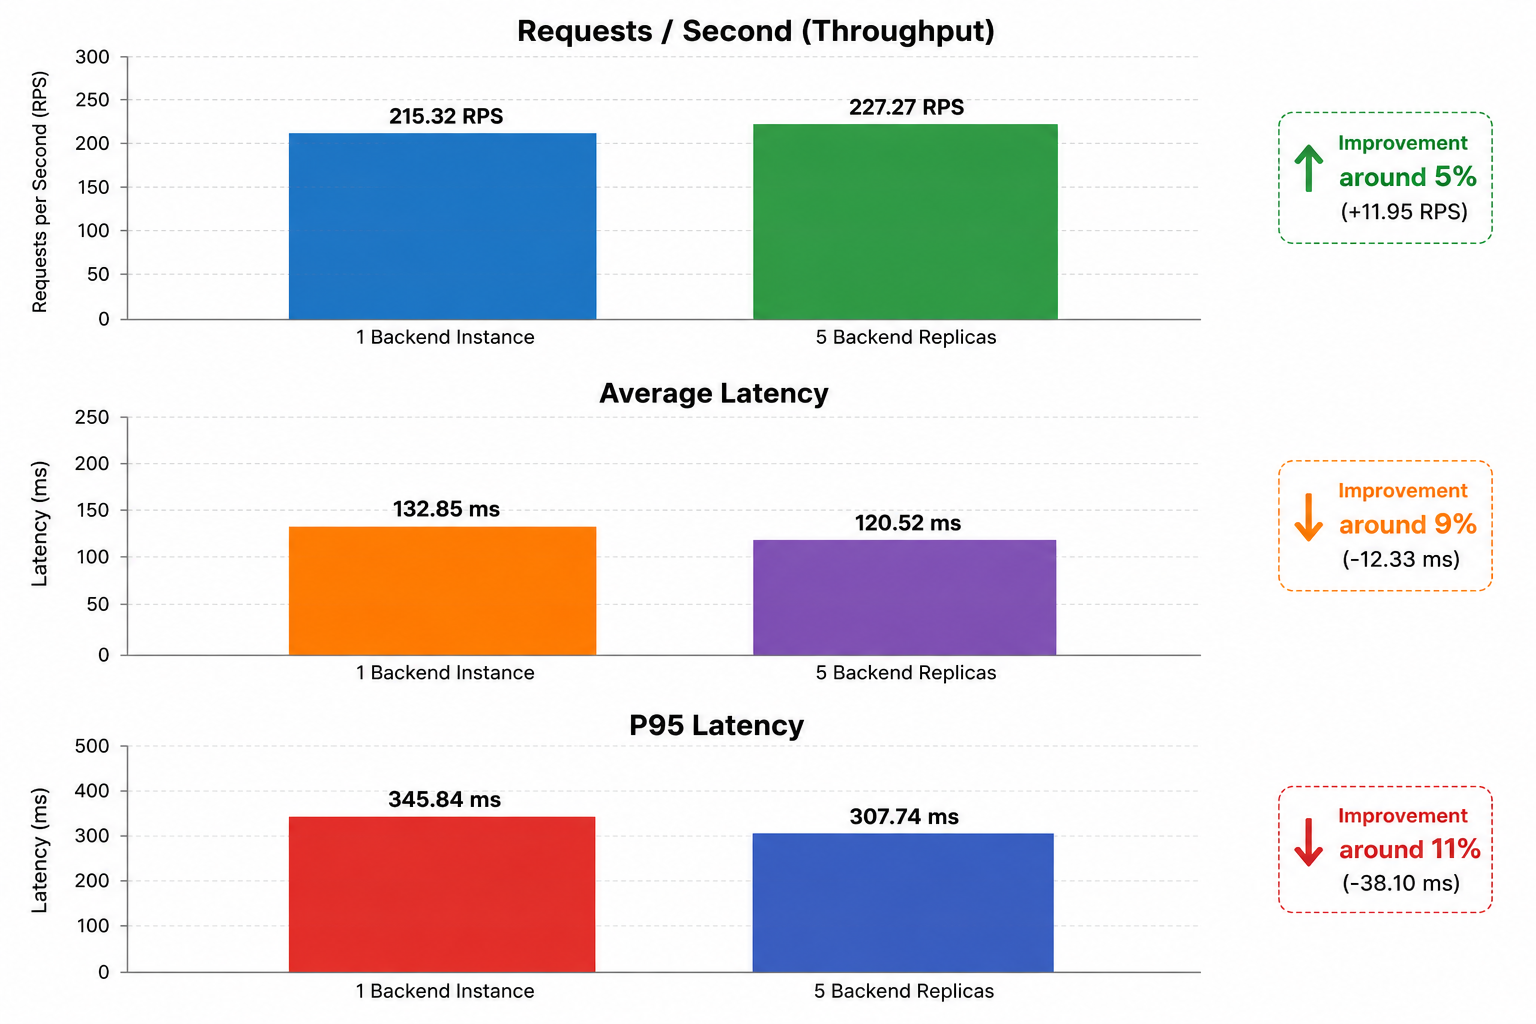
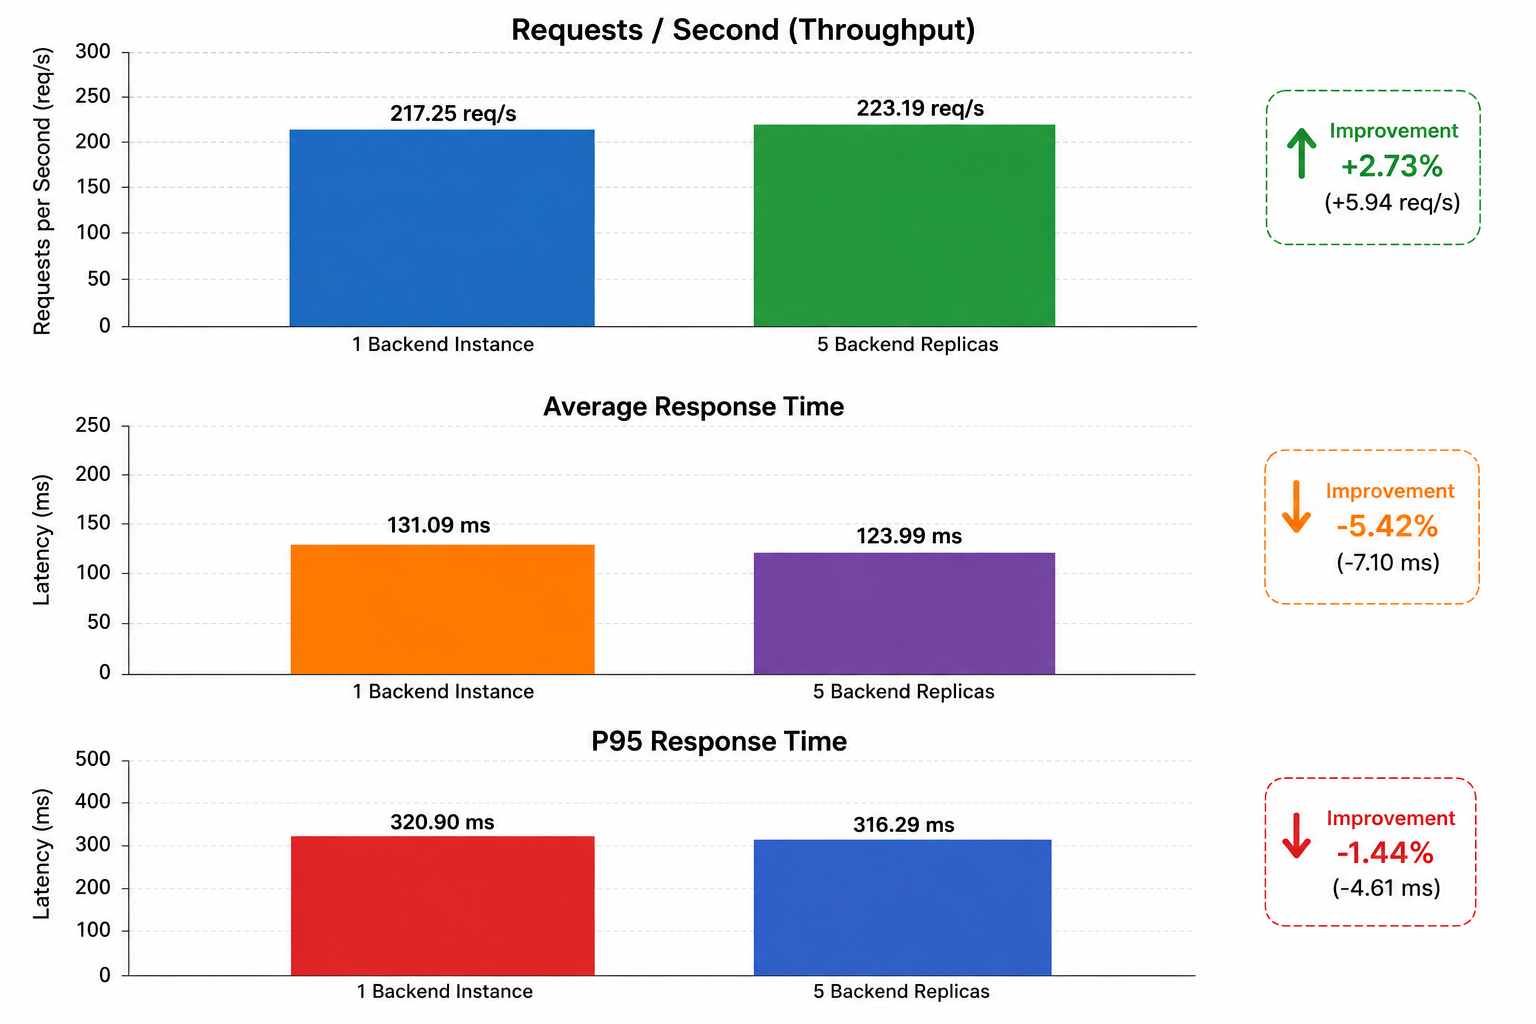
updated docs.md files with logs

diff --git a/DOCS.md b/DOCS.md
@@ -236,17 +236,17 @@ Below is the performance comparison between the two deployment configurations un
 
 | Metric | 1 Backend Instance | 5 Backend Replicas | Improvement / Delta |
 | :--- | :---: | :---: | :---: |
-| **Requests / Second (Throughput)** | 215.32 RPS | 227.27 RPS | **around 5%** |
-| **Average Latency** | 132.85 ms | 120.52 ms | **around 9% lower** |
-| **P95 Latency** | 345.84 ms | 307.74 ms | **around 11% lower** |
+| **Requests / Second (Throughput)** | 217.25 RPS | 223.19 RPS | **+2.73%** |
+| **Average Latency** | 131.09 ms | 123.99 ms | **5.42% lower** |
+| **P95 Latency** | 320.90 ms | 316.29 ms | **1.44% lower** |
 
 ---
 
 ### 3. Performance Analysis & Comparison
 
 Horizontal scaling did improve the overall performance, but the increasement is low
-- **Throughput**: Increased from **215.3 RPS** to **227.3 RPS** (approx. +5%).
-- **Latency**: The average response time dropped by **9.3%** (from 132.9 ms to 120.5 ms), and higher-percentile latencies (P90 and P95) also saw an 8% to 11% improvement.
+- **Throughput**: Increased from **217.25 RPS** to **223.19 RPS** (approx. +2.73%).
+- **Latency**: The average response time dropped by **5.42%** (from 131.09 ms to 123.99 ms), and higher-percentile latencies (such as P95) also saw a 1.44% improvement.
 - **Reliability**: There were no failures since the load was not that high and users were less as far as my local system is concerned
 
 ---
@@ -259,7 +259,7 @@ The point is since all the containers use my local system itself, there is only 
 
 ### 5. Potential Bottlenecks
 
-1. **Host Hardware Constraints**:
+1. **My Hardware Constraints**:
    All containers (Nginx, Go backends, Frontend, and Database) are run on the same my same local machine. They share the same resources. Therefore, increasing the replica count doesnt inrease my hardware capablities instead they share the resources
 2. **Database Concurrency**:
    [Potential Bottleneck but again not relevant since for load testing the /api/stress has no database call]Since i ahev only one db running of postgress, it doesnt matter how many backend instrance i craete, but in production all instances will share the same single db instance